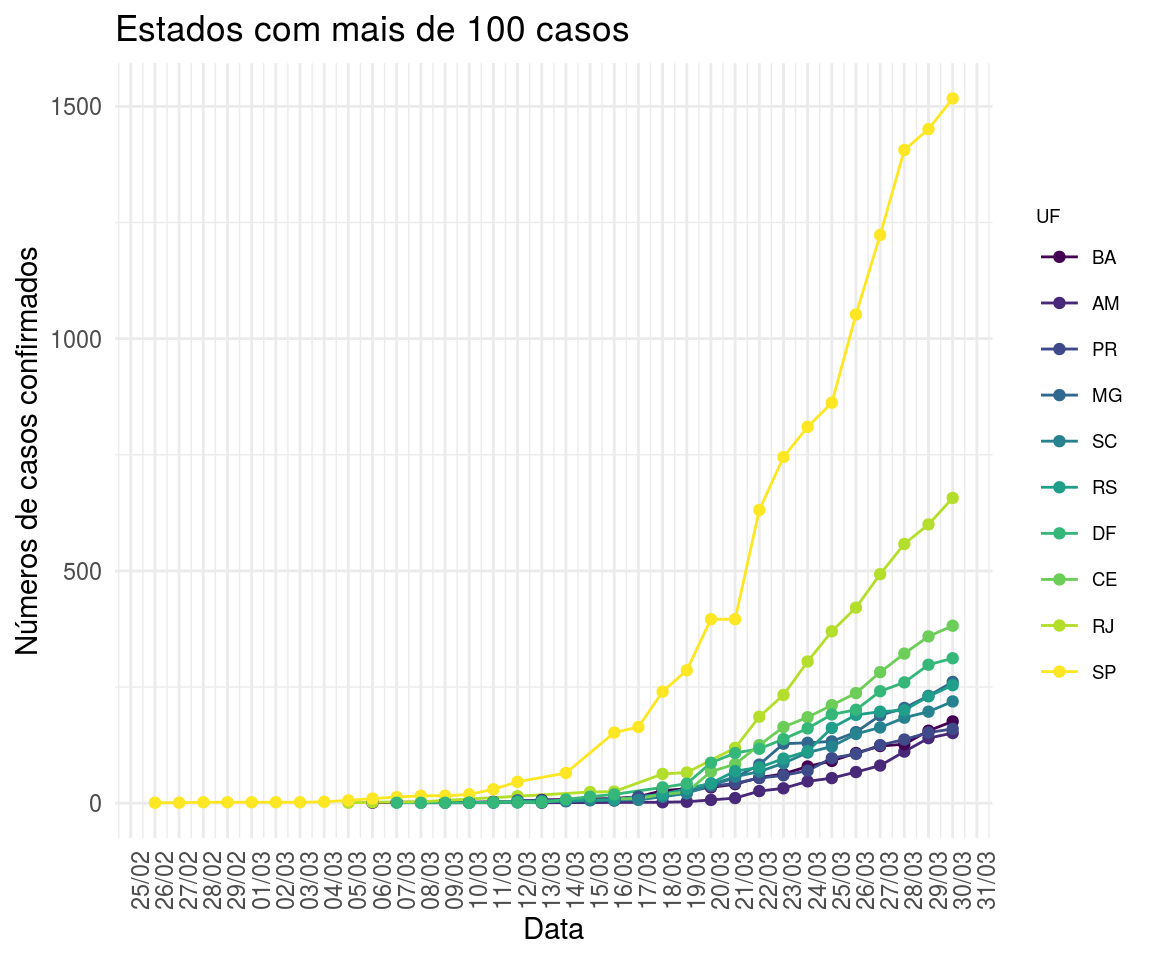
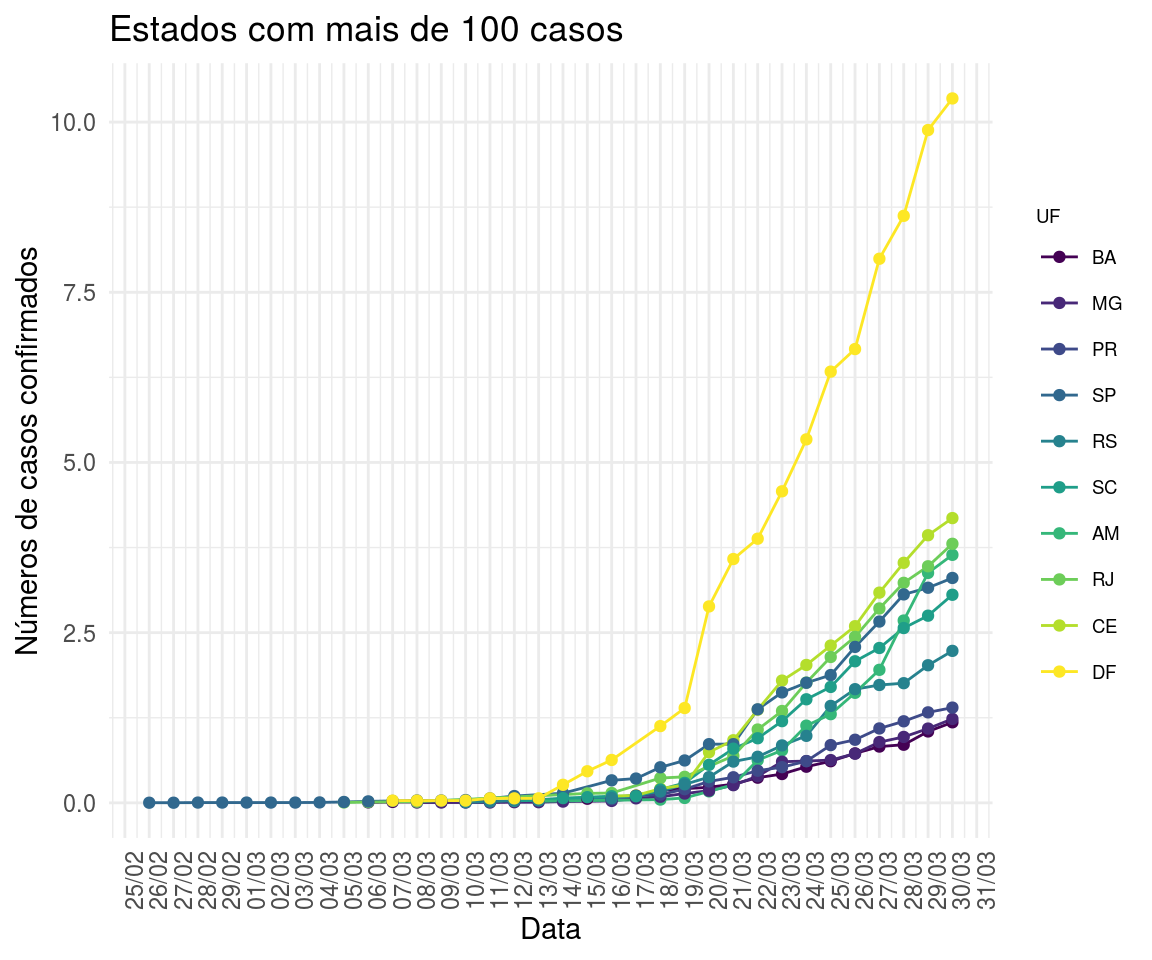
now plot_uf has the prop_pop argument

diff --git a/docs/reference/plot_uf.html b/docs/reference/plot_uf.html
@@ -129,7 +129,7 @@
     <p>Plot o número de casos (confirmados ou mortes) por Estados com dados do Brasil.io</p>
     </div>
 
-    <pre class="usage"><span class='fu'>plot_uf</span>(<span class='no'>df</span>, <span class='kw'>tipo</span> <span class='kw'>=</span> <span class='st'>"confirmed"</span>, <span class='kw'>n</span> <span class='kw'>=</span> <span class='fl'>100</span>)</pre>
+    <pre class="usage"><span class='fu'>plot_uf</span>(<span class='no'>df</span>, <span class='kw'>prop_pop</span> <span class='kw'>=</span> <span class='fl'>TRUE</span>, <span class='kw'>tipo</span> <span class='kw'>=</span> <span class='st'>"confirmed"</span>, <span class='kw'>n</span> <span class='kw'>=</span> <span class='fl'>100</span>)</pre>
 
     <h2 class="hasAnchor" id="arguments"><a class="anchor" href="#arguments"></a>Arguments</h2>
     <table class="ref-arguments">
@@ -137,6 +137,10 @@
     <tr>
       <th>df</th>
       <td><p>Data frame por estado formatado com a função `format_corona_br()`</p></td>
+    </tr>
+    <tr>
+      <th>prop_pop</th>
+      <td><p>Lógico. Exibir gráfico com número de casos proporcional à população? Padrão prop_pop = TRUE</p></td>
     </tr>
     <tr>
       <th>tipo</th>
